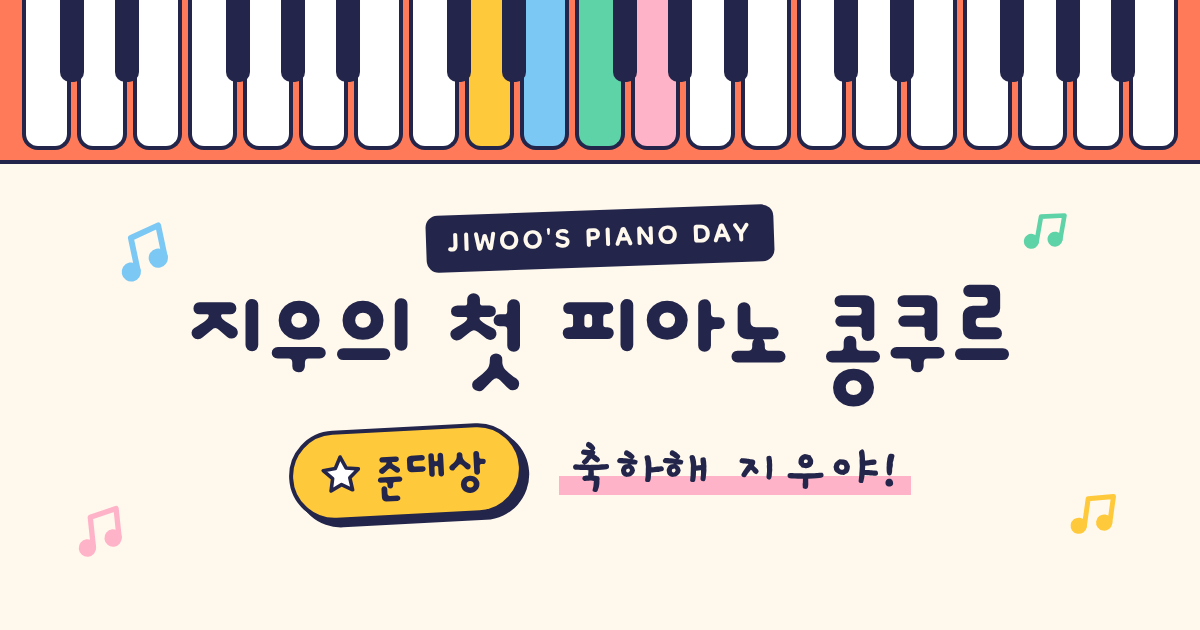
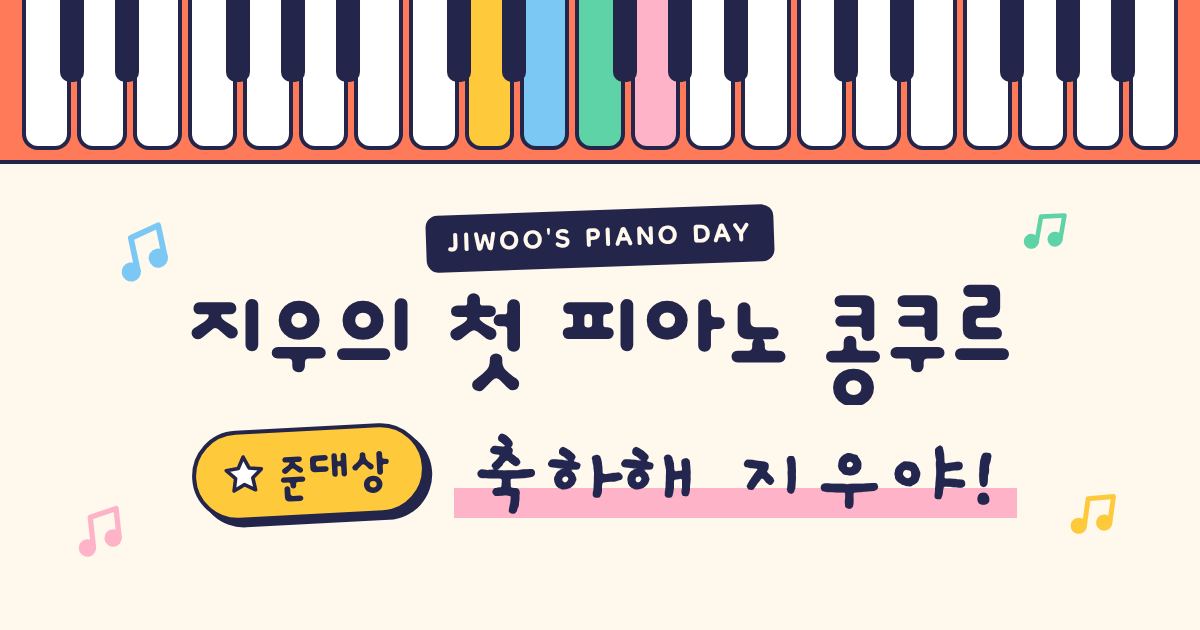
feat: bigger cheer text on the link-preview image

Changed region(s): [[0.1542, 0.6635, 0.8633, 0.8444]]

diff --git a/index.html b/index.html
@@ -11,7 +11,7 @@
 <meta property="og:title" content="지우의 첫 피아노 콩쿠르">
 <meta property="og:description" content="준대상 축하 앨범">
 <meta property="og:url" content="https://jiniya1227.github.io/piano-jiwoo2026/">
-<meta property="og:image" content="https://jiniya1227.github.io/piano-jiwoo2026/og.png?v=20261108d">
+<meta property="og:image" content="https://jiniya1227.github.io/piano-jiwoo2026/og.png?v=20261108e">
 <meta property="og:image:width" content="1200">
 <meta property="og:image:height" content="630">
 <!-- og:end -->
